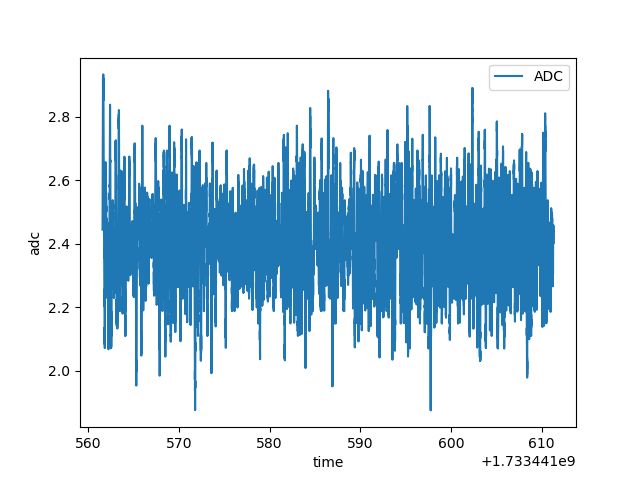
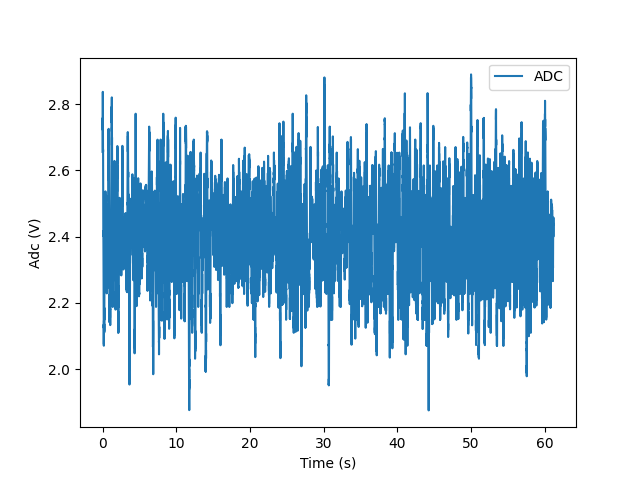
latest code lab 3

diff --git a/proj3/ppg_fft.py b/proj3/ppg_fft.py
@@ -23,9 +23,11 @@ def fft(signal,_fft_size,f_sampling):
     return fft_freqs[:_fft_size//2], np.abs(fft_output[:_fft_size//2])
 
 
-adc = np.load('ppg.npz', allow_pickle=True)['arr_0'].item()['adc'][400:]
-adc = adc - np.mean(adc)
+# adc = np.load('ppg.npz', allow_pickle=True)['arr_0'].item()['adc'][400:]
+adc = np.load('ppg_rock_fast.npz', allow_pickle=True)['arr_0'].item()['adc'][400:]
+# adc = adc - np.mean(adc)
 print(len(adc))
+
 # time = np.load('ppg.npz', allow_pickle=True)['arr_0'].item()['time'][200:]
 # time = time - time[0]
 
@@ -36,17 +38,17 @@ print(len(adc))
 # print(f"Average Sampling Rate: {avg_sampling_rate:.2f} Hz")
 
 plt.clf()
-plt.plot(adc, label="ADC")
-plt.xlabel('time (s)')
-plt.ylabel('adc (V)')
+plt.plot(np.arange(len(adc))/400, adc, label="ADC")
+plt.xlabel('Time (s)')
+plt.ylabel('Adc (V)')
 plt.legend()
-plt.savefig("adc.png")
+plt.savefig("adc_rock_fast.png")
 
 freq, adc_fft = fft(adc, 4096, 400)
-# freq, adc_fft = fft(adc, 1024, 100)
-freq_range = (freq >= 1.0) & (freq <= 2)  
+freq_range = (freq >= 0.5) & (freq <= 2.0)  
 index = np.argmax(adc_fft[freq_range]) 
 strongest_freq = freq[freq_range][index]
+print("Strongest frequency: ", strongest_freq)
 T_fft = 1 / strongest_freq
 bpm_fft = 60 / T_fft
 print("BPM from FFT: ", bpm_fft)
@@ -55,6 +57,7 @@ print("Strongest frequency: ", strongest_freq)
 plt.clf()
 plt.plot(freq, 20 * np.log10(adc_fft+1e-10))
 plt.plot(strongest_freq, 20 * np.log10(adc_fft[freq == strongest_freq]), 'ro')
-plt.xlim([0,2])
-plt.xlabel('freq (Hz)')
-plt.savefig('fft.png')
+plt.xlim([0,10])
+plt.xlabel('Freq (Hz)')
+plt.ylabel('Magnitude (dB)')
+plt.savefig('fft_rock_fast.png')

diff --git a/proj3/ppg_part2.py b/proj3/ppg_part2.py
@@ -4,11 +4,11 @@ from scipy.signal import find_peaks
 from numpy import blackman
 from scipy.signal import butter, filtfilt
 
-data = np.load('ppg.npz', allow_pickle=True)['arr_0'].item()['adc'][100:]
-data = data - np.mean(data)
+data = np.load('ppg_2.npz', allow_pickle=True)['arr_0'].item()['adc'][100:]
+# data = data - np.mean(data)
 
-fs = 100 # maybe we need to change this
-peaks, _ = find_peaks(data, height=0.25, distance=fs/2)  
+fs = 400 # maybe we need to change this
+peaks, _ = find_peaks(data, height=0.0, distance=fs/2)  
 time_diff = np.diff(peaks) / fs
 T = np.mean(time_diff)
 bpm = 60 / T
@@ -20,7 +20,10 @@ print("Max HRV: ", max_hrv)
 print("rms_hrv: ", rms_hrv)
 
 plt.figure()
-plt.plot(data)
-plt.plot(peaks, data[peaks], "x")
+plt.plot(np.arange(len(data))/400, data, label="ADC")
+plt.plot(peaks/400, data[peaks], "x")
+plt.xlabel('Time (s)')
+plt.ylabel('Adc (V)')
+plt.legend(['PPG Signal', 'Peaks'])
 plt.title("PPG Signal with Peaks")
 plt.savefig('peaks.png')

diff --git a/proj3/ADS1256.py b/proj3/ADS1256.py
@@ -6,7 +6,7 @@ ScanMode = 0
 
 
 # gain channel
-ADS1256_GAIN_E = {'ADS1256_GAIN_1' : 0, # GAIN   1
+chADS1256_GAIN_E = {'ADS1256_GAIN_1' : 0, # GAIN   1
                   'ADS1256_GAIN_2' : 1,	# GAIN   2
                   'ADS1256_GAIN_4' : 2,	# GAIN   4
                   'ADS1256_GAIN_8' : 3,	# GAIN   8
